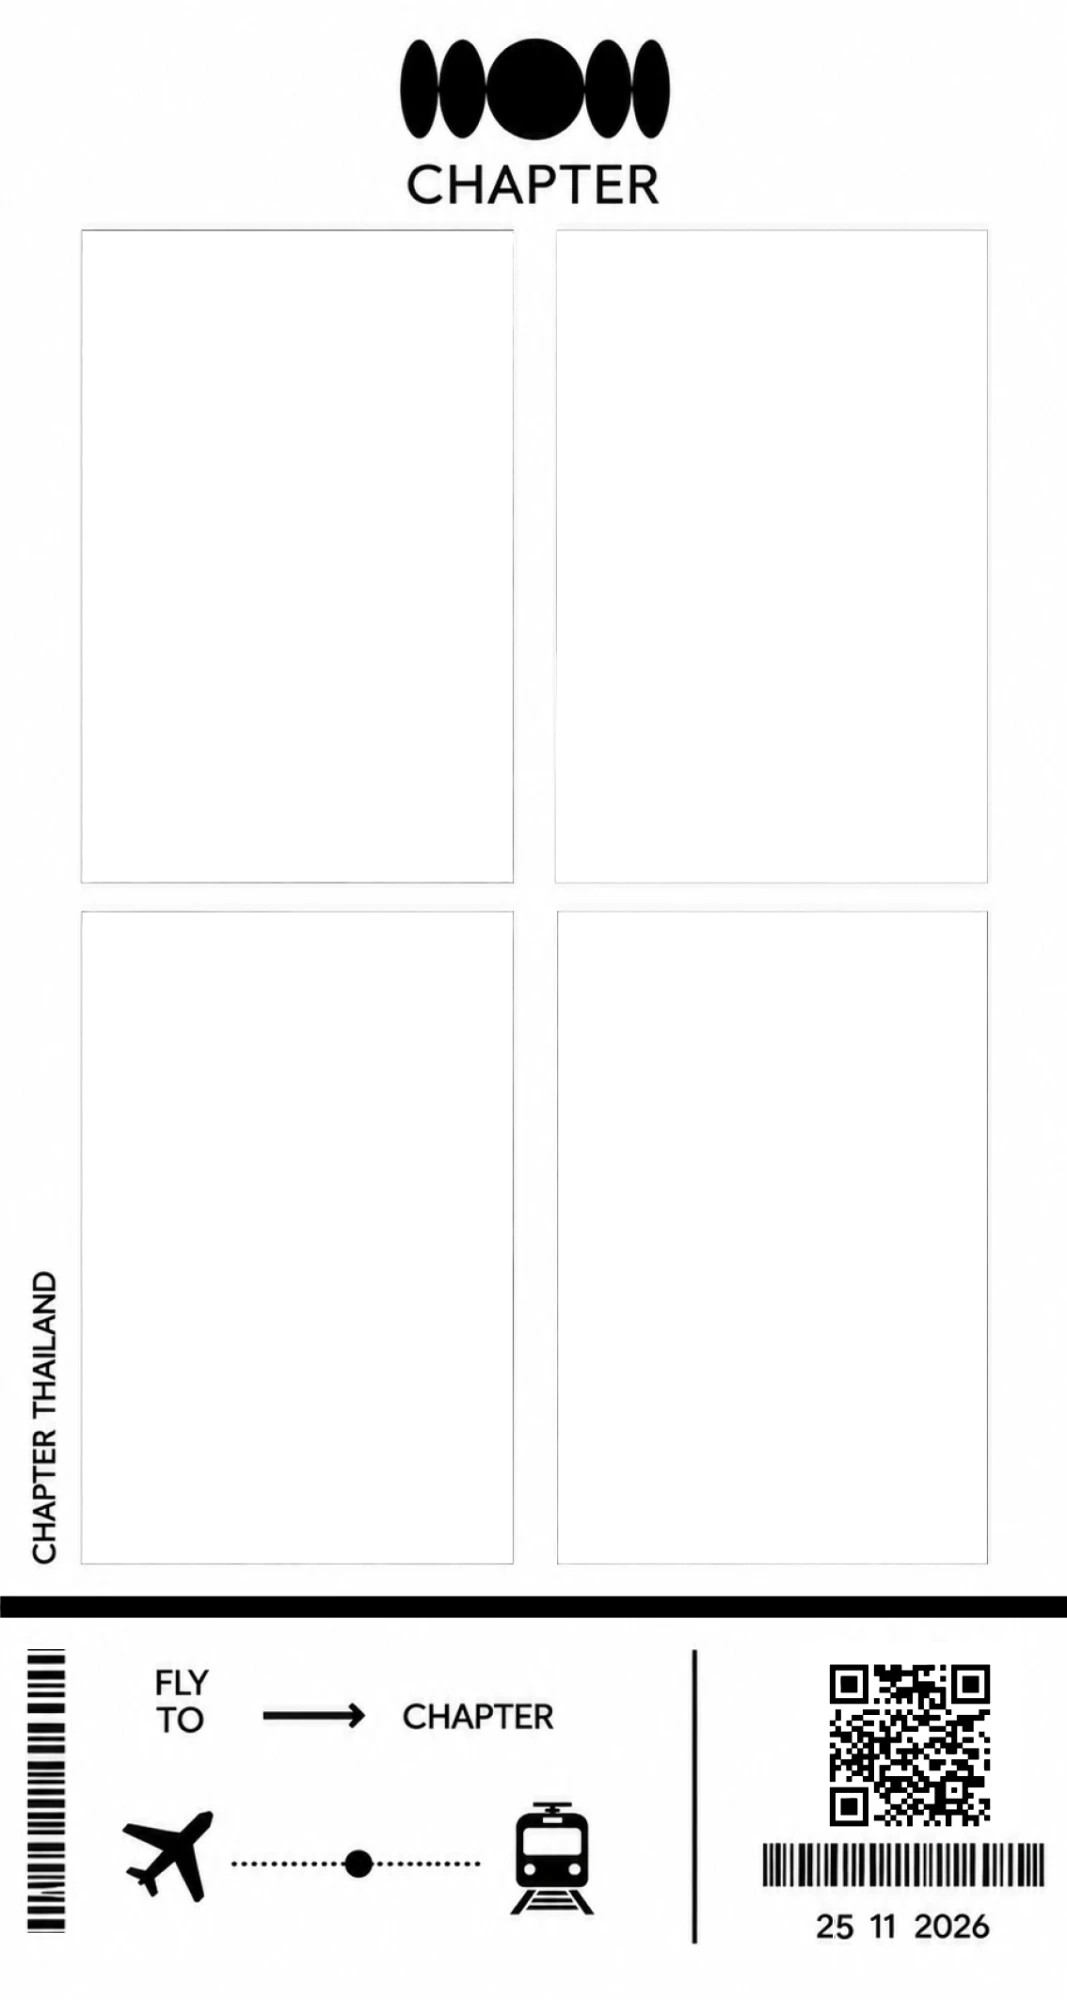
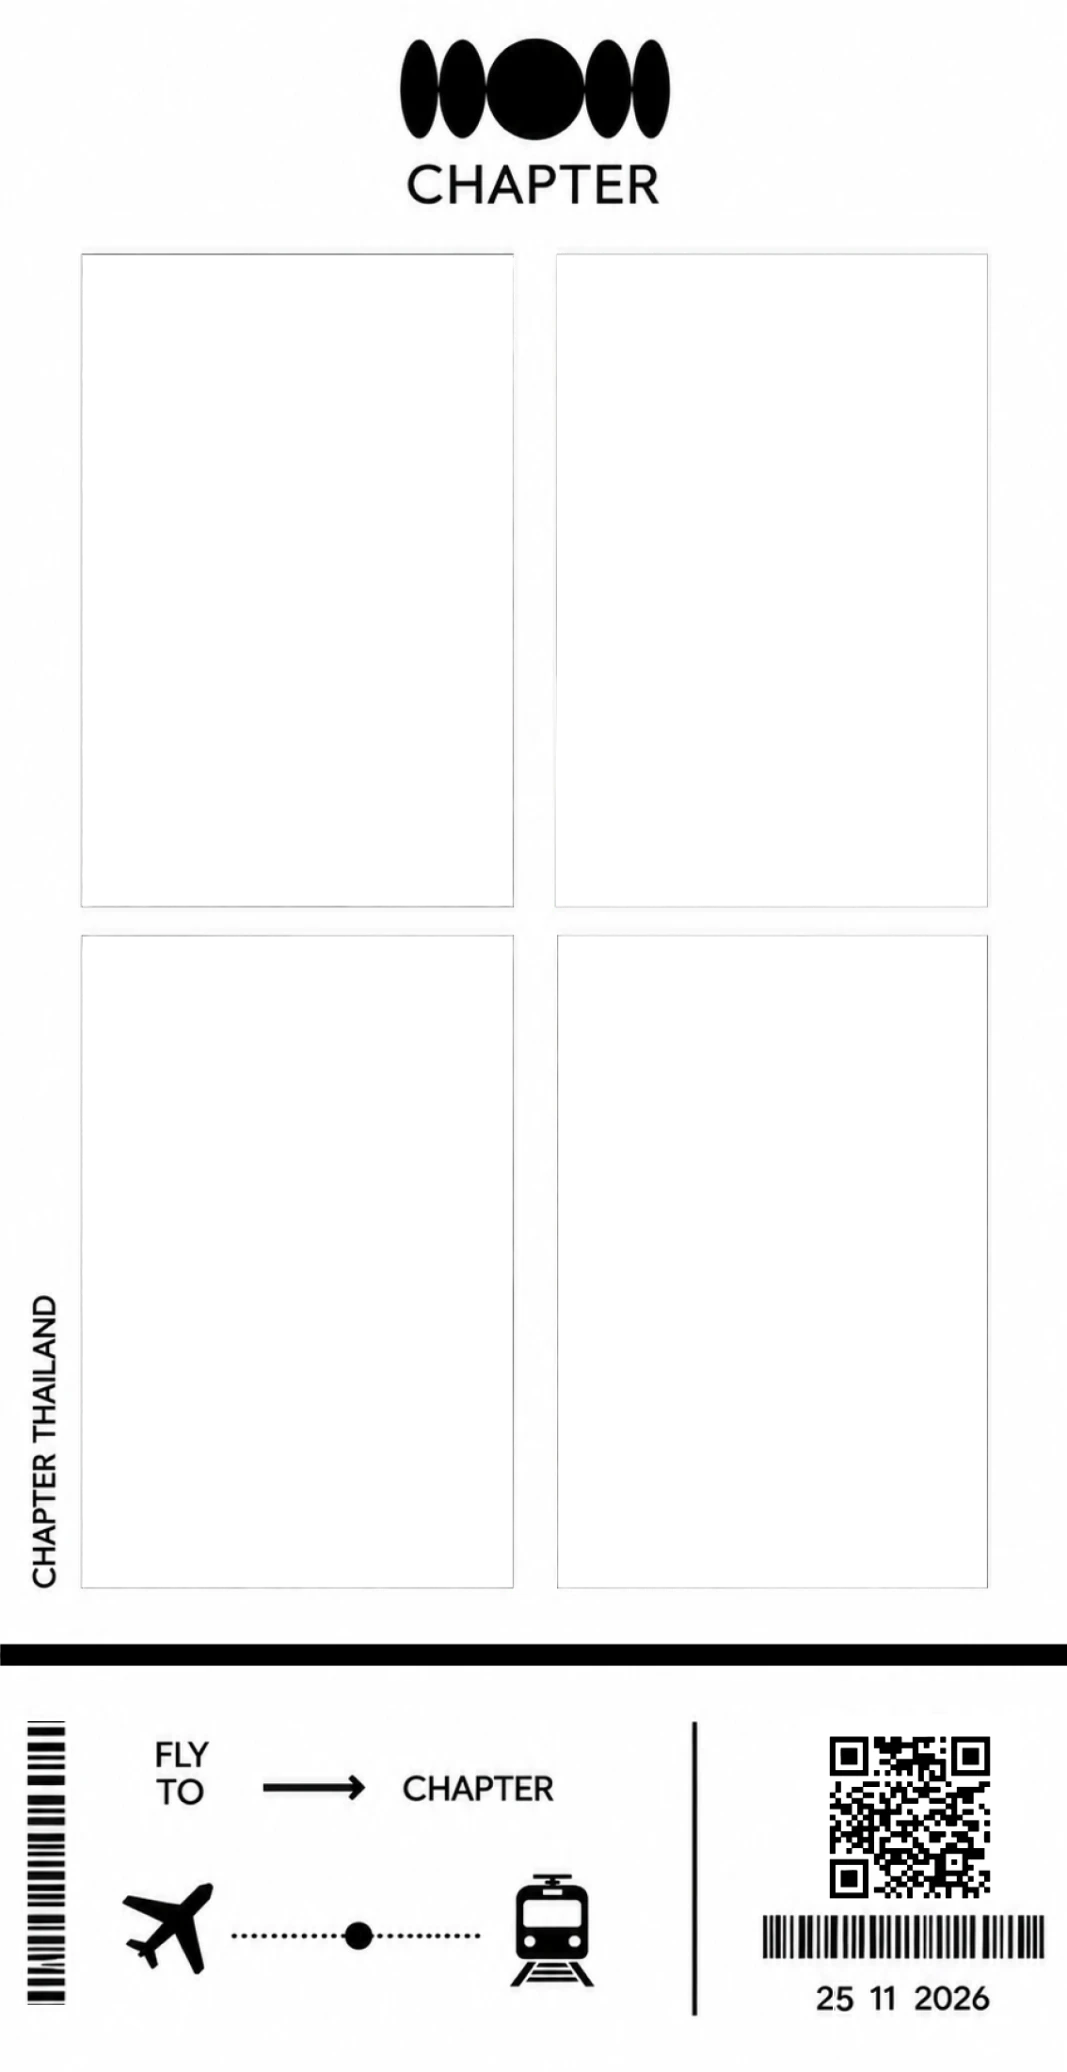
Add breathing room around the photos and divider on both print frames
24px more white space under the CHAPTER header, above the black divider
and below it (owner's pick from labelled OLD/NEW paper prints). Slot
positions and the website QR position move down to match.

Claude-Session: https://claude.ai/code/session_01FynaJLu4s926dB6LPWQYyb

diff --git a/app.js b/app.js
@@ -128,10 +128,10 @@ const FRAME_LAYOUTS = {
       { x: 94, y: 912, width: 880, height: 624 }
     ],
     print: {
-      src: 'assets/chapter-navy-2-print.png', width: 1067, height: 2000,
+      src: 'assets/chapter-navy-2-print.png', width: 1067, height: 2072,
       slots: [
-        { x: 84, y: 231, width: 903, height: 630 },
-        { x: 84, y: 894, width: 903, height: 638 }
+        { x: 84, y: 255, width: 903, height: 630 },
+        { x: 84, y: 918, width: 903, height: 638 }
       ]
     }
   },
@@ -144,12 +144,12 @@ const FRAME_LAYOUTS = {
       { x: 559, y: 924, width: 418, height: 626 }
     ],
     print: {
-      src: 'assets/chapter-gold-print.png', width: 1067, height: 2000,
+      src: 'assets/chapter-gold-print.png', width: 1067, height: 2072,
       slots: [
-        { x: 82, y: 230, width: 431, height: 653 },
-        { x: 557, y: 230, width: 431, height: 653 },
-        { x: 82, y: 911, width: 431, height: 653 },
-        { x: 557, y: 911, width: 431, height: 653 }
+        { x: 82, y: 254, width: 431, height: 653 },
+        { x: 557, y: 254, width: 431, height: 653 },
+        { x: 82, y: 935, width: 431, height: 653 },
+        { x: 557, y: 935, width: 431, height: 653 }
       ]
     }
   }

diff --git a/services/printer.js b/services/printer.js
@@ -332,8 +332,8 @@ async function ditherForPrint(dataUrl, framePath, toneName = ACTIVE_TONE) {
 const QR_DOTS_PER_MODULE = 4;
 const CHAPTER_WEBSITE = 'https://www.chapterthailand.com/';
 const PRINT_QR_STAMPS = {
-  'assets/chapter-gold-print.png': { url: CHAPTER_WEBSITE, clear: [826, 1661, 993, 1829], centerX: 909.5, top: 1617, bottom: 1843 },
-  'assets/chapter-navy-2-print.png': { url: CHAPTER_WEBSITE, clear: [816, 1639, 983, 1809], centerX: 899.5, top: 1587, bottom: 1830 }
+  'assets/chapter-gold-print.png': { url: CHAPTER_WEBSITE, clear: [826, 1733, 993, 1901], centerX: 909.5, top: 1665, bottom: 1915 },
+  'assets/chapter-navy-2-print.png': { url: CHAPTER_WEBSITE, clear: [816, 1711, 983, 1881], centerX: 899.5, top: 1635, bottom: 1902 }
 };
 const FRAME_SOURCE_WIDTH = 1067;
 
@@ -412,4 +412,4 @@ function isReady() {
   return fs.existsSync(DEVICE_PATH);
 }
 
-module.exports = { printPhoto, isReady, ditherForPrint, dataUrlToRaster, ACTIVE_TONE };
+module.exports = { printPhoto, isReady, ditherForPrint, dataUrlToRaster, ACTIVE_TONE, PRINT_QR_STAMPS };
